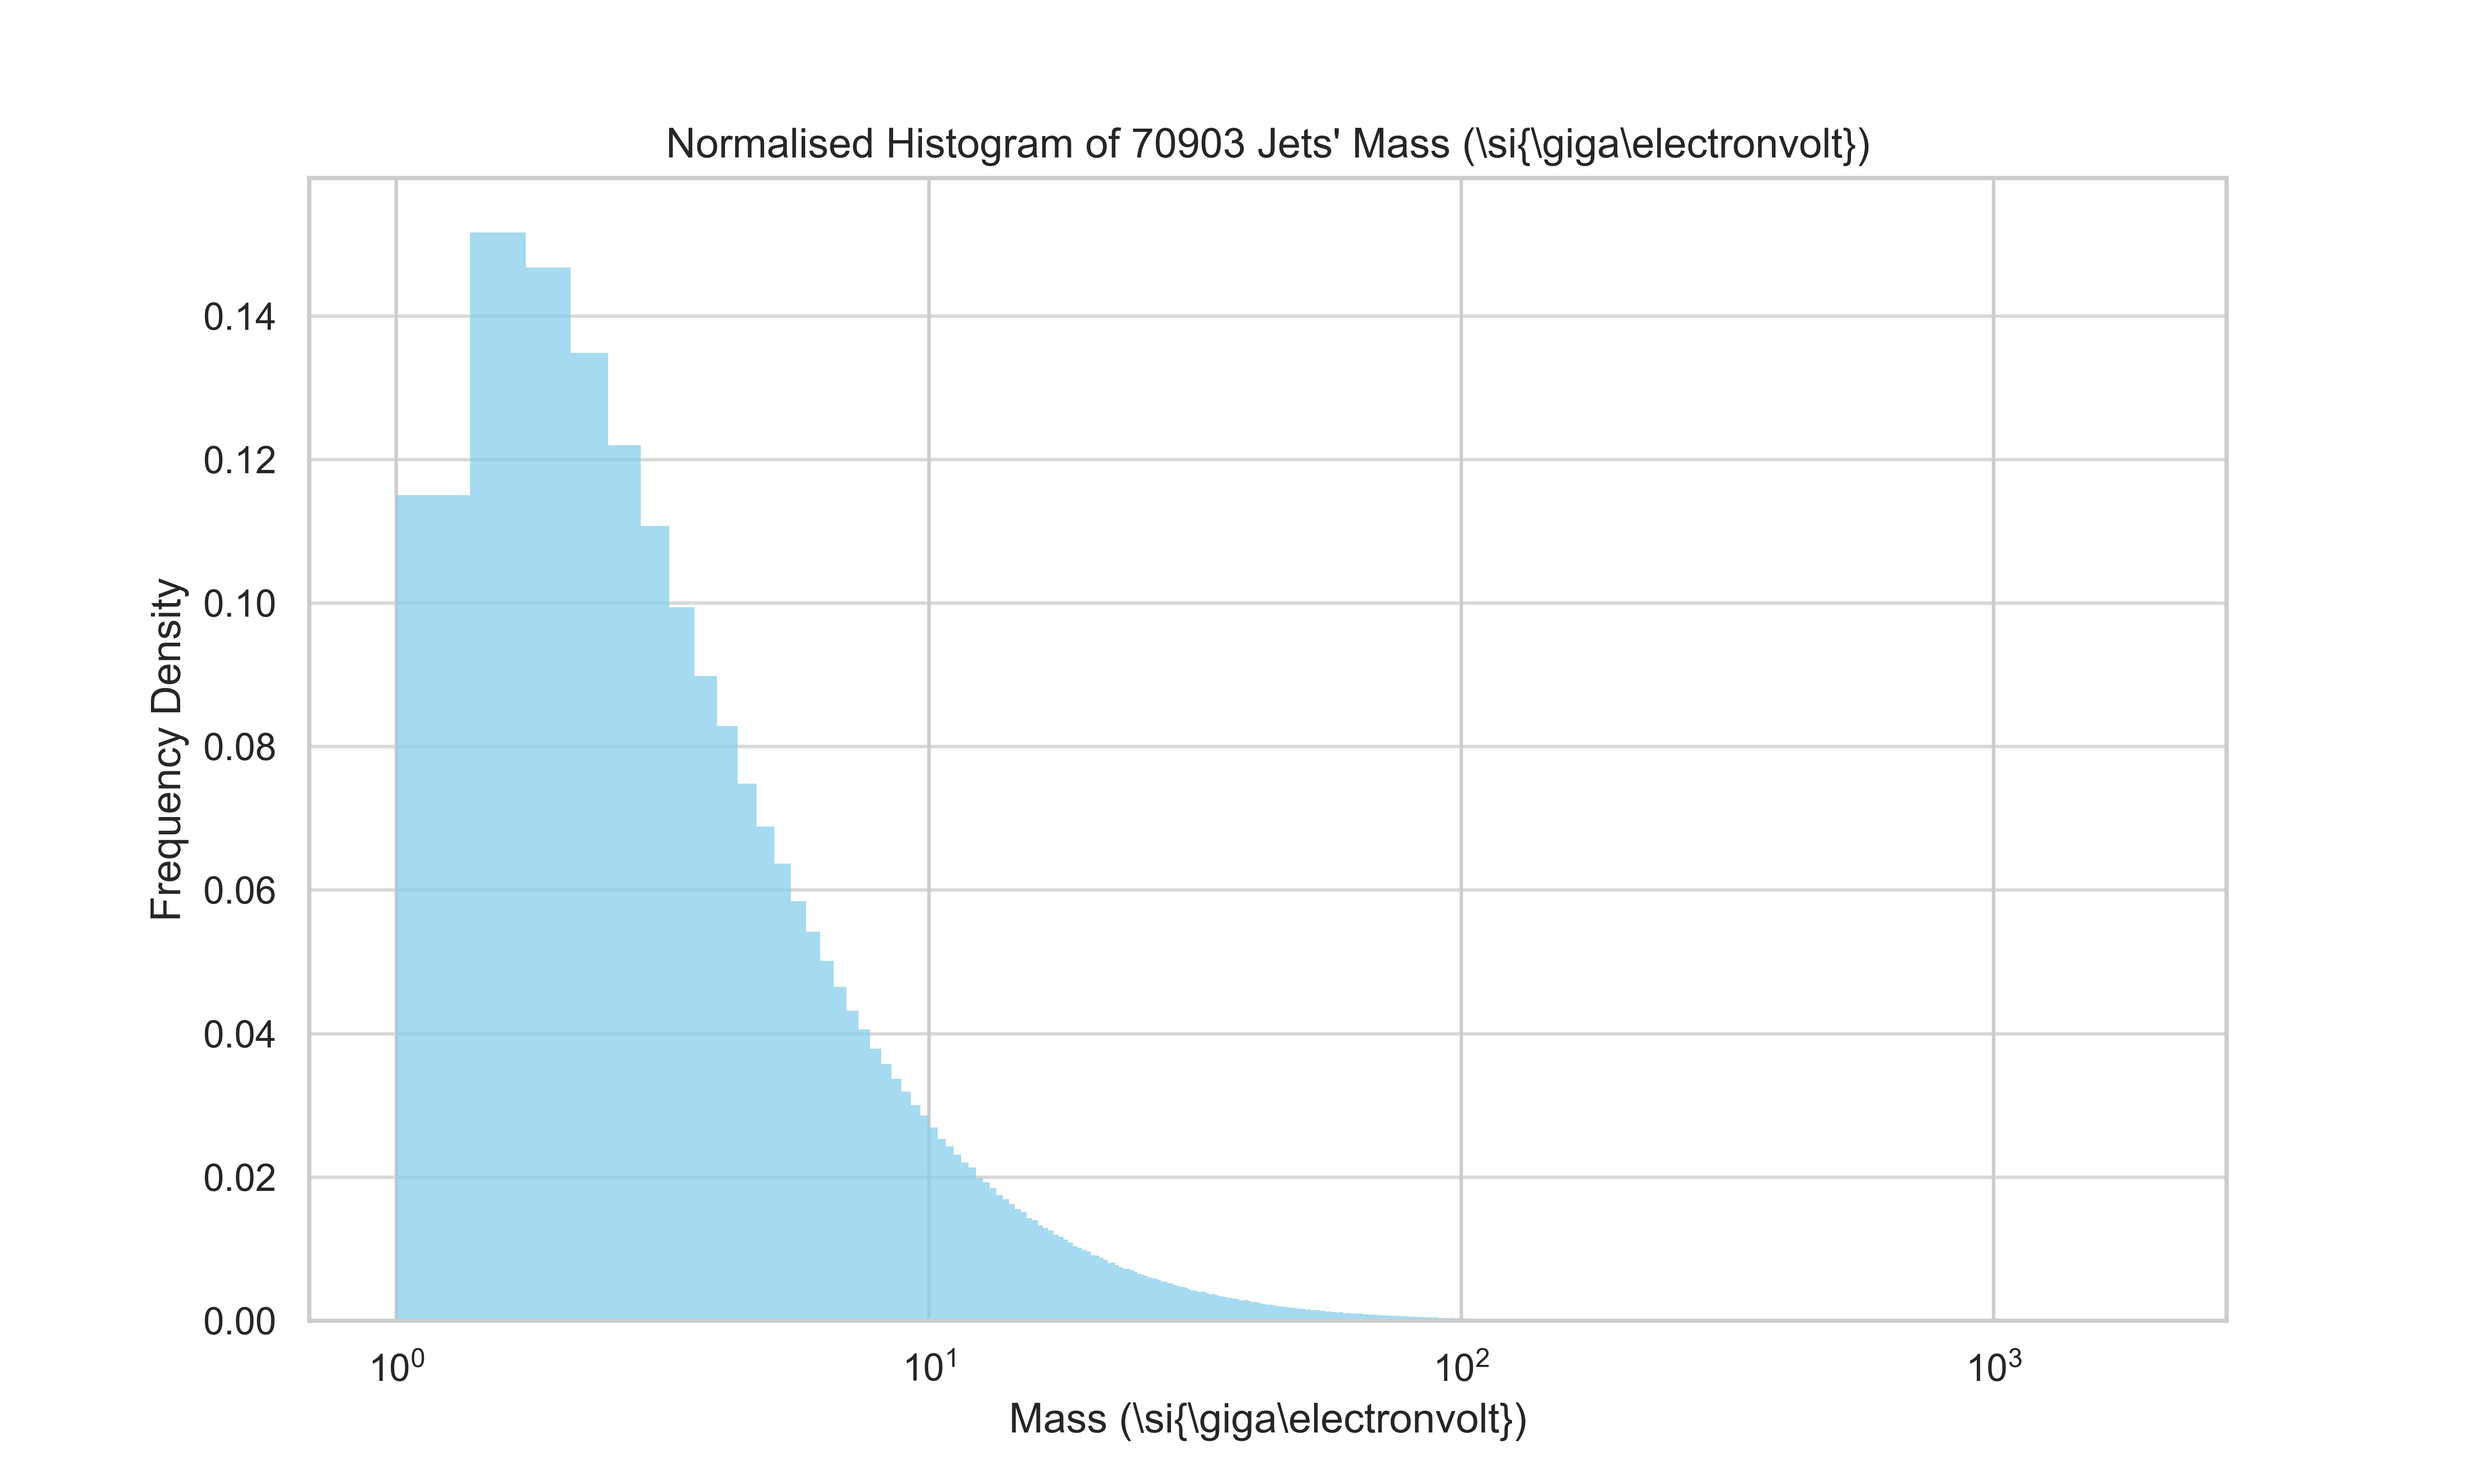
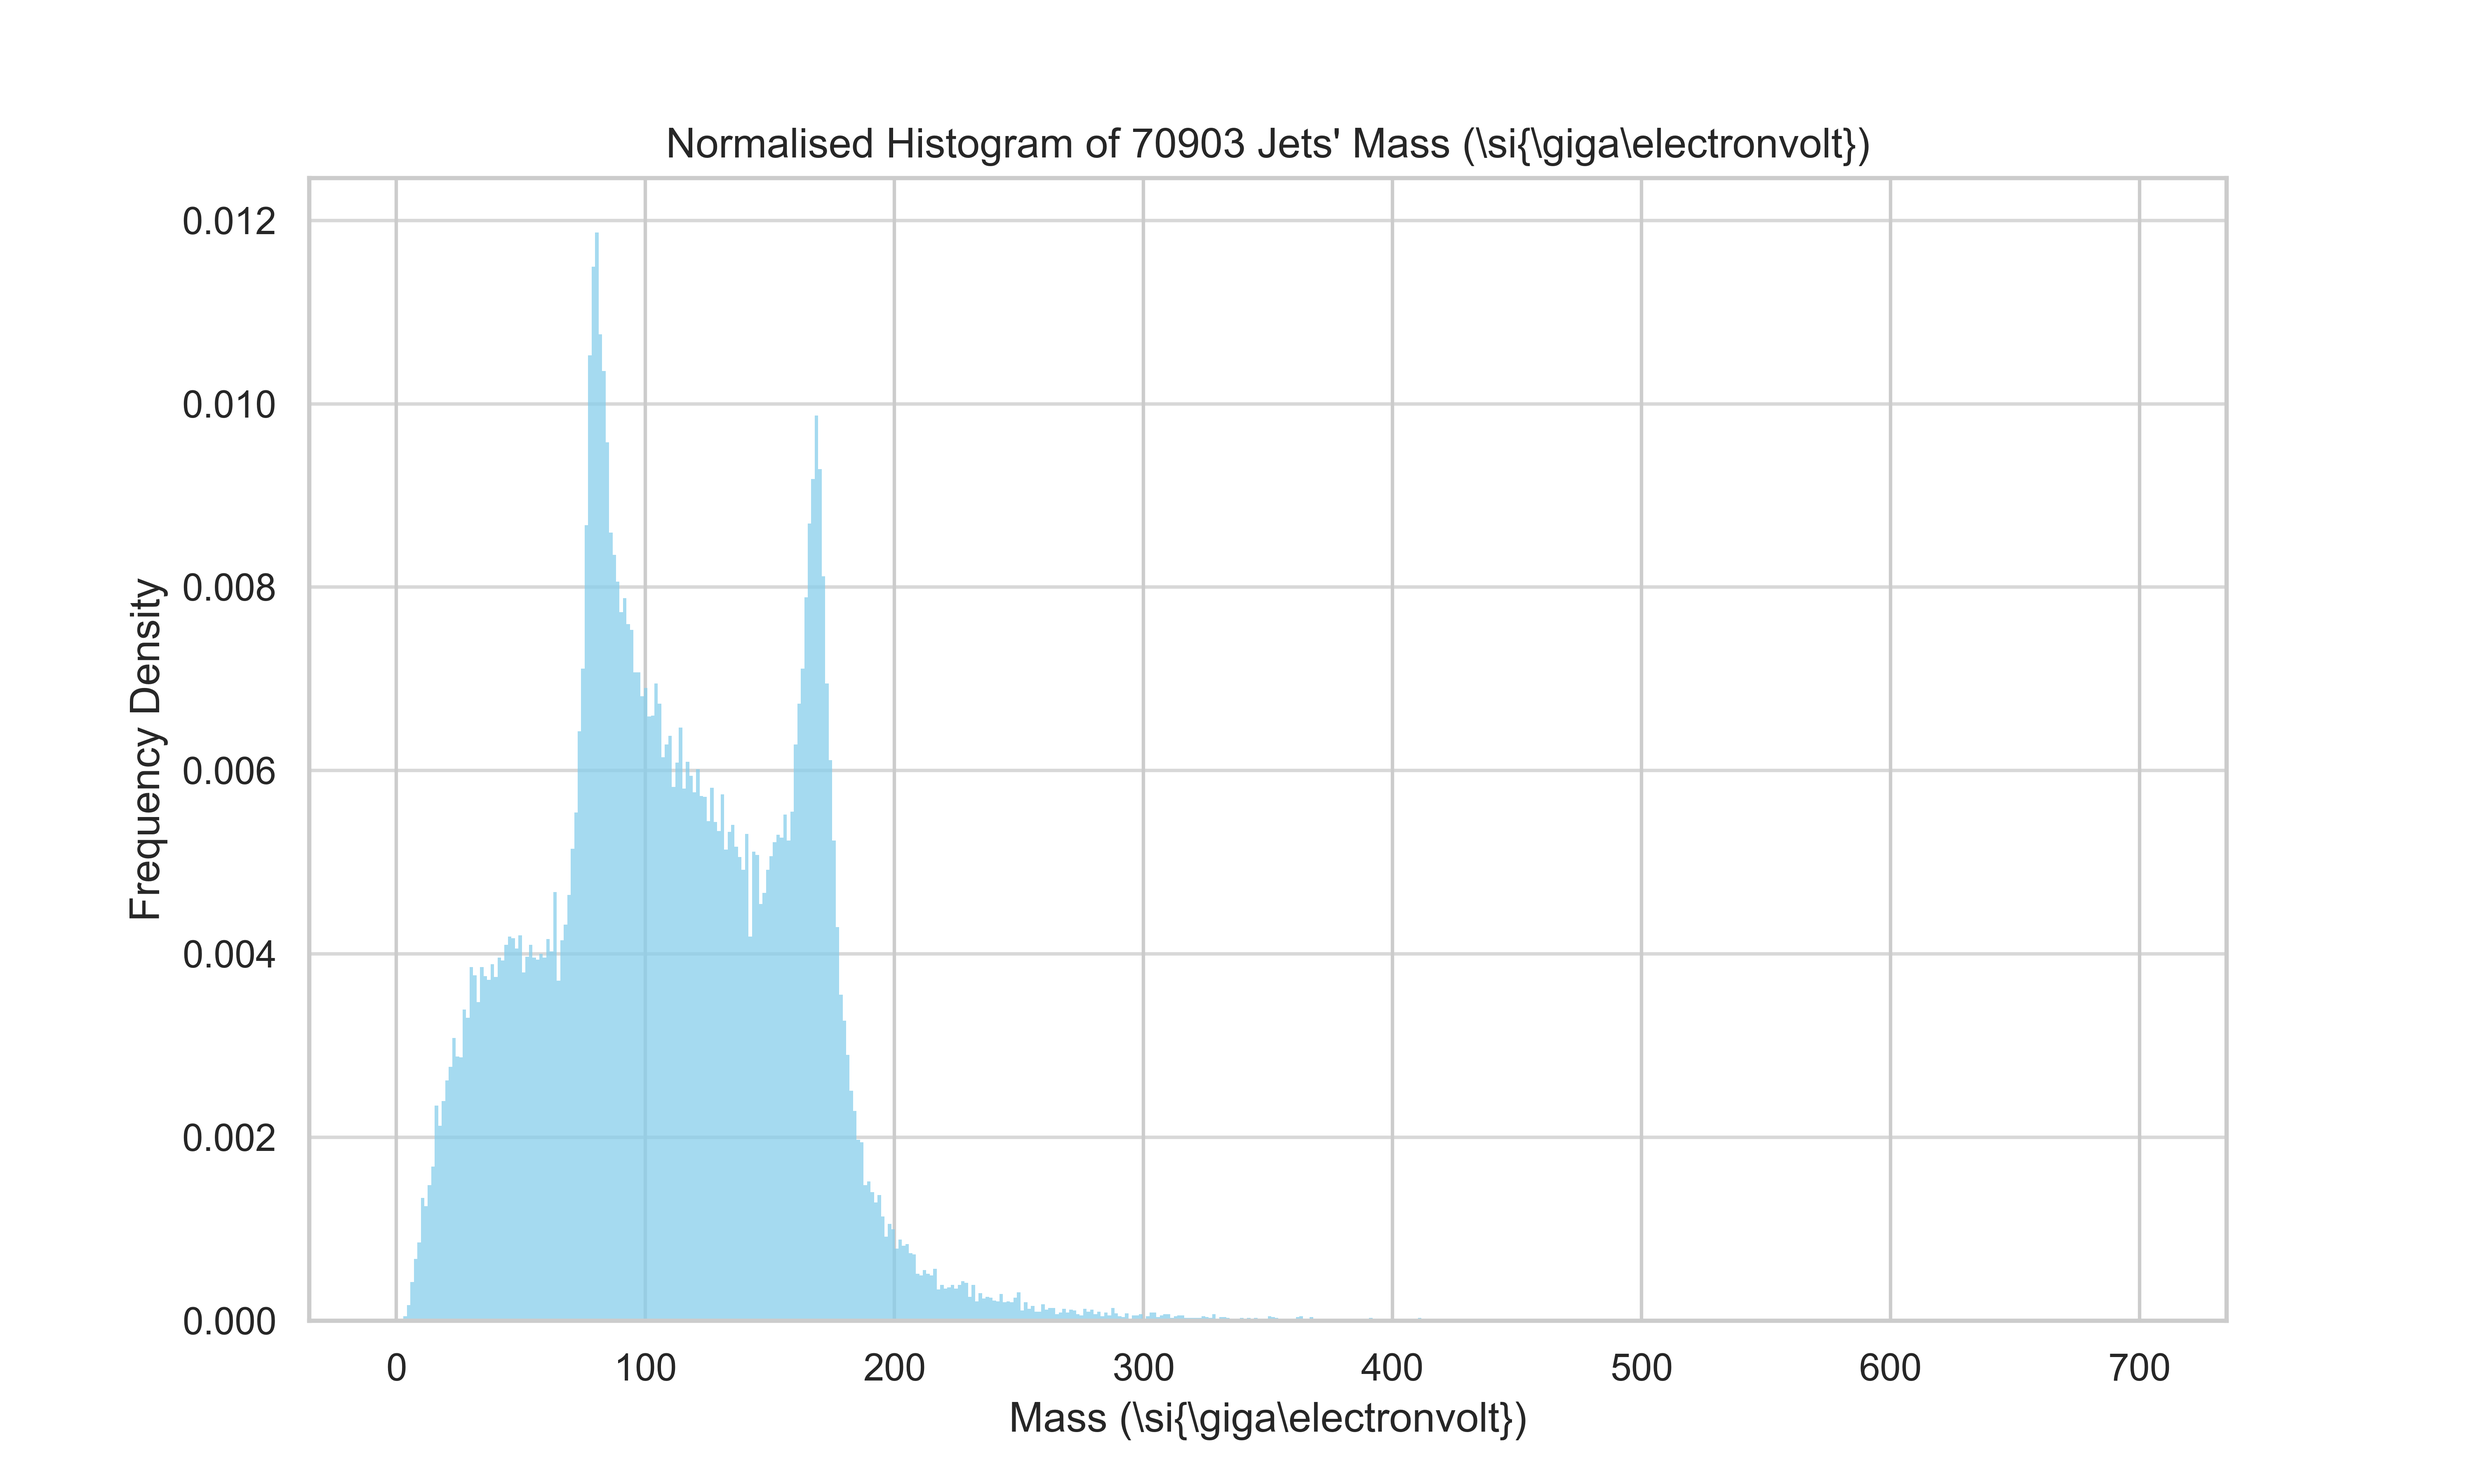
Correct 1D hist plots

diff --git a/src/main_one_time.py b/src/main_one_time.py
@@ -30,7 +30,7 @@ tt = np.genfromtxt(
 num = len(tt)
 jet_ids = tt[:, 0]
 p_mag = p_magnitude(tt[:, 3:])
-pz, px, py = tt[:, 5], tt[:, 3], tt[:, 4]
+px, py, pz = tt[:, 3], tt[:, 4], tt[:, 5]
 # Basic stats
 eta = pseudorapidity(p_mag, pz)
 p_T = np.sqrt(px**2 + py**2)
@@ -48,7 +48,7 @@ for jet_id in range(0, len(jet_four_momenta), 132):
 # Define the save path and plot characteristics
 save_path = f"{CWD}/data/plots/1D_histograms/"
 plot_params = {
-    "bins": 5000,
+    "bins": 500,
     "color": "skyblue",
     "edgecolor": "none",
     "kde": False,
@@ -59,7 +59,7 @@ def plot_1D_hist(name, data, xscale="linear", is_jet=False, plot_params=plot_par
     parjet = "Jets'" if is_jet else "Particles'"
     num = len(data)
     plt.figure(figsize=(10, 6))
-    sb.histplot(p_mag, **plot_params)
+    sb.histplot(data, **plot_params)
     plt.title(f"Normalised Histogram of {num} {parjet} {name}")
     plt.xlabel(name)
     plt.xscale(xscale)
@@ -73,5 +73,5 @@ plot_1D_hist("Momentum Magnitudes (\si{\giga\electronvolt})",           p_mag,  
 plot_1D_hist("Pseudorapidity $\eta$",                                   eta,        save_filename="eta",                      xscale="linear")
 plot_1D_hist("Transverse Momentum $p_T$ (\si{\giga\electronvolt})",     p_T,        save_filename="p_T",                        xscale="log")
 plot_1D_hist("($p^2$) (\si{\giga\electronvolt^2})",                     jet_p2,     save_filename="jet_p2",     is_jet=True,    xscale="log")
-plot_1D_hist("Mass (\si{\giga\electronvolt})",                          jet_mass,   save_filename="jet_mass",   is_jet=True,    xscale="log")
+plot_1D_hist("Mass (\si{\giga\electronvolt})",                          jet_mass,   save_filename="jet_mass",   is_jet=True,    xscale="linear")
 print("Done.")
